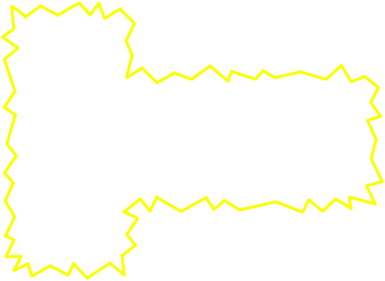
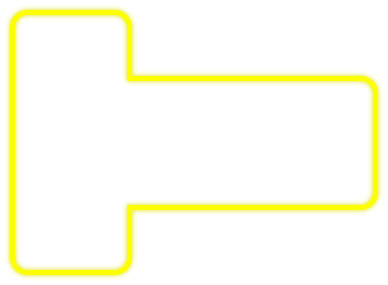
updated HealthDisplay to not be electric border

Changed region(s): [[0.0, 0.0, 0.9974, 0.9964]]

diff --git a/assets/HUDs/components/HealthDisplay/HealthDisplay.ts b/assets/HUDs/components/HealthDisplay/HealthDisplay.ts
@@ -179,12 +179,14 @@ export default class HealthDisplay extends ASHUDComponent
      */
     private _drawBorder()
     {
-        const paddingUnits = 5; // Used to push the border out a bit
+        // Used to push the border in/out a bit
+        const paddingUnitsX = 5;
+        const paddingUnitsY = 10;
         
-        const xPos = this.x - paddingUnits;
-        const yPos = this.y - paddingUnits;
-        const unitWidth = this.width + (paddingUnits * 2);
-        const unitHeight = this.height + (paddingUnits * 2);
+        const xPos = this.x - paddingUnitsX;
+        const yPos = this.y - paddingUnitsY;
+        const unitWidth = this.width + (paddingUnitsX * 2);
+        const unitHeight = this.height + (paddingUnitsY * 2);
         
         const { x, y, width, height } = this.kernel.graphicEngine.getStaticDrawPositionsAndDimensions({
             x: xPos, 
